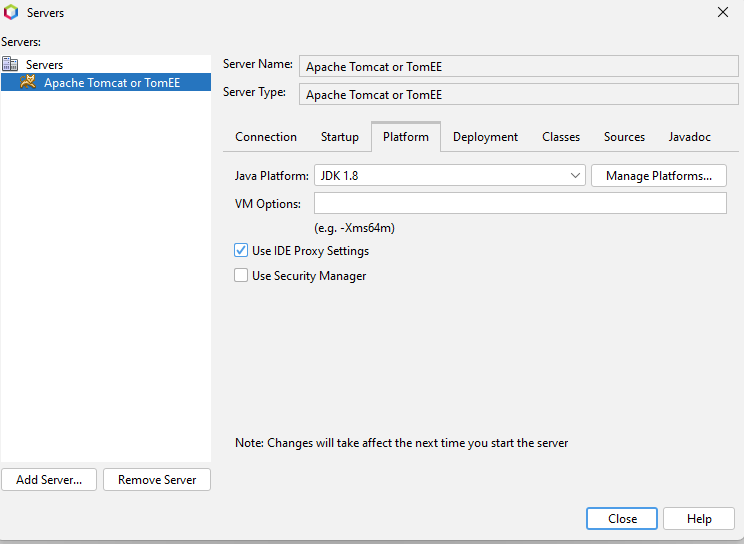
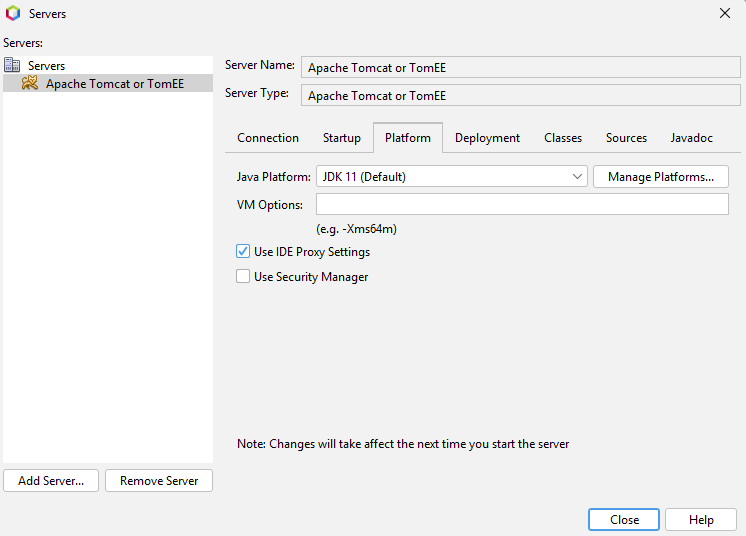
Update

diff --git a/eform/README.md b/eform/README.md
@@ -585,8 +585,8 @@ Lakukan build di perangkat client (bukan Server), dalam contoh ini menggunakan W
 
 ## Persiapan JDK
 
-Install Java SE Development Kit 8u202 (bukan OpenJDK) dapat diunduh pada situs resmi berikut:
-https://www.oracle.com/id/java/technologies/javase/javase8-archive-downloads.html 
+Install Java SE Development Kit 11 dapat diunduh pada situs resmi berikut:
+https://download.oracle.com/otn/java/jdk/11.0.24%2B7/21cffd70ff1e41a3a5ef9898f46e442d/jdk-11.0.24_windows-x64_bin.exe
 
 Setelah terunduh, lakukan instalasi seperti biasa.
 
@@ -601,7 +601,7 @@ Setelah terunduh, extract zip Tomcat dan pindahkan ke drive misalnya : C:\apache
 
 ## Persiapan Netbeans
 
-Buka Netbeans, jika belum punya silahkan unduh di : https://archive.apache.org/dist/netbeans/netbeans-installers/23/Apache-NetBeans-23-bin-windows-x64.exe
+Buka Netbeans, jika belum punya silahkan unduh di : https://archive.apache.org/dist/netbeans/netbeans-installers/19/Apache-NetBeans-19-bin-windows-x64.exe
 
 Konfigurasi Tomcat 9 di Netbeans dengan cara :
 1. Klik Tools
@@ -614,7 +614,7 @@ Konfigurasi Tomcat 9 di Netbeans dengan cara :
 
 ![Tomcat](screenshots/15-Tomcat.png)
 
-Pastikan pada Tab Platform yang terpilih adalah Java 8 (1.8) :
+Pastikan pada Tab Platform yang terpilih adalah Java 11 :
 
 ![JDK8](screenshots/16-JDK8.png)
 
